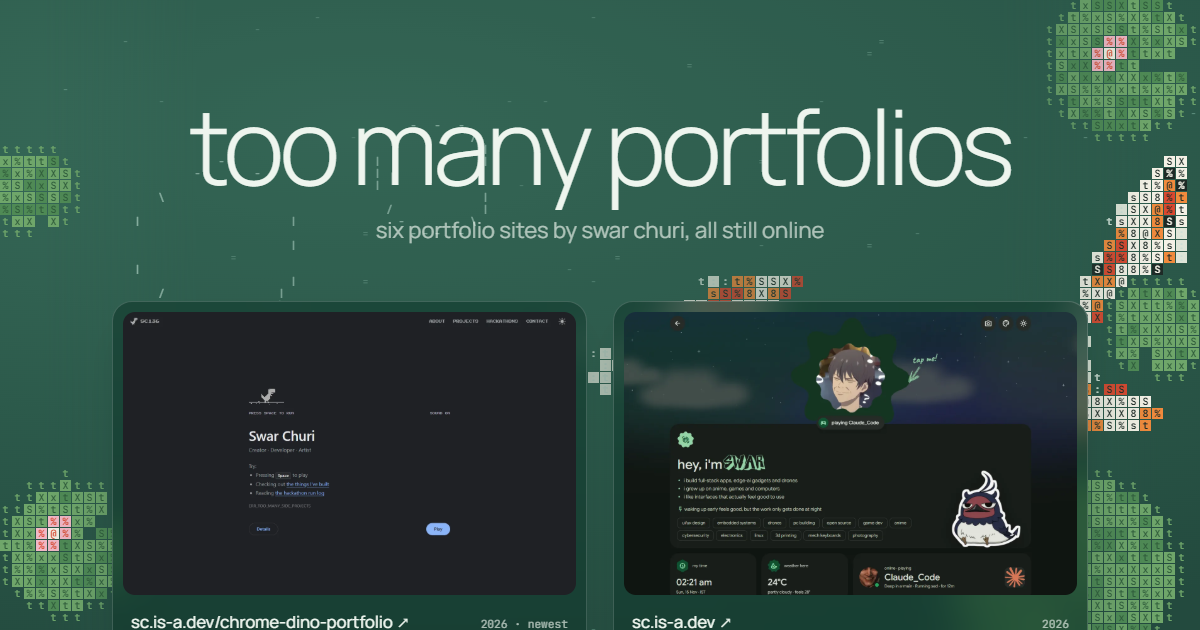
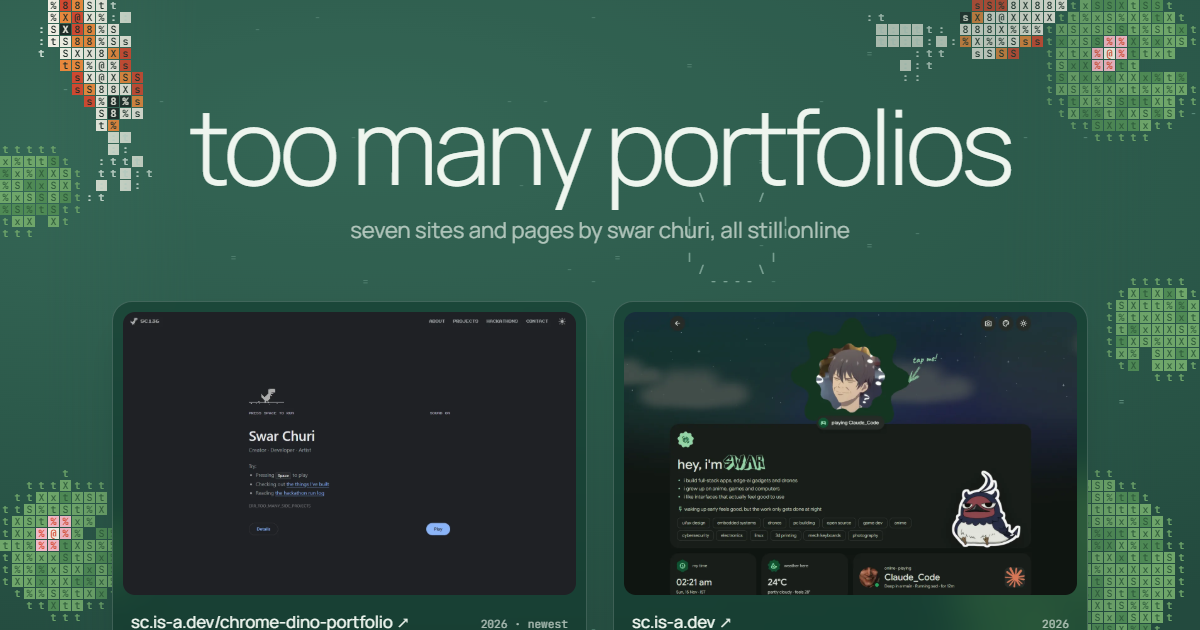
feat: swap the Vercel rebuild for /more and /socials
Replaces the swarchuri.vercel.app card with swar.is-a.dev/more and
swar.is-a.dev/socials, bringing the list to seven. Centres the odd
last card, updates the copy and share descriptions, and re-renders
the preview image.

diff --git a/index.html b/index.html
@@ -4,7 +4,7 @@
     <meta charset="UTF-8">
     <meta name="viewport" content="width=device-width, initial-scale=1.0">
     <title>Swar Churi · Too Many Portfolios</title>
-    <meta name="description" content="Every portfolio site Swar Churi has built, all still online, on a live ASCII wallpaper you can change.">
+    <meta name="description" content="Seven portfolio sites and pages by Swar Churi, all still online, on a live ASCII wallpaper you can change.">
     <meta name="theme-color" content="#2c5a4b">
     <link rel="canonical" href="https://sc.is-a.dev/portfolios/">
     <meta name="author" content="Swar Churi">
@@ -12,7 +12,7 @@
     <meta property="og:site_name" content="Swar Churi">
     <meta property="og:url" content="https://sc.is-a.dev/portfolios/">
     <meta property="og:title" content="Too Many Portfolios · Swar Churi">
-    <meta property="og:description" content="Six portfolio sites, all still online, on a live ASCII wallpaper you can change.">
+    <meta property="og:description" content="Seven portfolio sites and pages, all still online, on a live ASCII wallpaper you can change.">
     <meta property="og:image" content="https://sc.is-a.dev/portfolios/og.png">
     <meta property="og:image:type" content="image/png">
     <meta property="og:image:width" content="1200">
@@ -20,7 +20,7 @@
     <meta property="og:image:alt" content="The words too many portfolios over a green ASCII koi pond, with two site previews below">
     <meta name="twitter:card" content="summary_large_image">
     <meta name="twitter:title" content="Too Many Portfolios · Swar Churi">
-    <meta name="twitter:description" content="Six portfolio sites, all still online, on a live ASCII wallpaper you can change.">
+    <meta name="twitter:description" content="Seven portfolio sites and pages, all still online, on a live ASCII wallpaper you can change.">
     <meta name="twitter:image" content="https://sc.is-a.dev/portfolios/og.png">
     <meta name="twitter:image:alt" content="The words too many portfolios over a green ASCII koi pond, with two site previews below">
     <link rel="icon" type="image/png" href="SC.png">
@@ -158,6 +158,8 @@
             transition: transform 0.35s cubic-bezier(0.2, 0.8, 0.2, 1), box-shadow 0.35s ease, background-color 0.5s ease, border-color 0.5s ease;
         }
         .card:hover { transform: translateY(-4px); box-shadow: 0 26px 50px -22px var(--shadow); }
+        /* an odd card out sits centred instead of leaving a hole */
+        .card:last-child:nth-child(odd) { grid-column: 1 / -1; justify-self: center; width: calc(50% - clamp(16px, 2.4vw, 26px) / 2); }
         .card img {
             display: block;
             width: 100%;
@@ -195,6 +197,7 @@
 
         @media (max-width: 720px) {
             .grid { grid-template-columns: 1fr; }
+            .card:last-child:nth-child(odd) { width: 100%; }
             #wall { opacity: 0.62; }
             .links { border-radius: 22px; }
             .end small span { border-radius: 14px; }
@@ -227,7 +230,7 @@
     <div class="wrap">
         <header class="hero">
             <h1>too many portfolios</h1>
-            <p>Six of them so far, and every one is still online. Pick a door.</p>
+            <p>Seven of them so far, and every one is still online. Pick a door.</p>
             <div class="hint">press <kbd>T</kbd> to change the wallpaper</div>
         </header>
 
@@ -250,11 +253,17 @@
                 <p>The main one. Koi preloader, keycap buttons, a pixel fish in the text.</p>
                 <p class="stack">vanilla html · css · canvas</p>
             </a>
-            <a class="card" href="https://swarchuri.vercel.app/" target="_blank" rel="noopener noreferrer">
-                <img src="shots/vercel.webp" width="1440" height="900" loading="lazy" alt="A night-sky page titled Hackathons in yellow with three cards of team photos and results">
-                <div class="row"><span class="name">swarchuri.vercel.app<i>↗</i></span><span class="yr">c. 2025</span></div>
-                <p>The seasons site rebuilt in Next.js, with a night sky of hackathons.</p>
-                <p class="stack">next.js · vercel</p>
+            <a class="card" href="https://swar.is-a.dev/more" target="_blank" rel="noopener noreferrer">
+                <img src="shots/more.webp" width="1440" height="900" loading="lazy" alt="A cream page titled More Stuff with tiles for local time, weather, last played song, latest push and a live status">
+                <div class="row"><span class="name">swar.is-a.dev/more<i>↗</i></span><span class="yr">2026</span></div>
+                <p>Everything that didn't fit on the main page: the vibe check, live tiles and Pokémon.</p>
+                <p class="stack">vanilla html · css · live apis</p>
+            </a>
+            <a class="card" href="https://swar.is-a.dev/socials" target="_blank" rel="noopener noreferrer">
+                <img src="shots/socials.webp" width="1440" height="900" loading="lazy" alt="A dark page titled Social Connections with a wall of cards for AniList, YouTube, Instagram, Spotify, LinkedIn, Twitch and Steam">
+                <div class="row"><span class="name">swar.is-a.dev/socials<i>↗</i></span><span class="yr">2026</span></div>
+                <p>A wall of live cards for every place I'm online.</p>
+                <p class="stack">vanilla html · css · live apis</p>
             </a>
             <a class="card" href="https://sc.is-a.dev/portfolio_seasons/" target="_blank" rel="noopener noreferrer">
                 <img src="shots/seasons.webp" width="1440" height="900" loading="lazy" alt="An ink-wash painting of a maple tree in orange autumn leaf with the name Swar Churi brushed across it">
@@ -277,7 +286,7 @@
                 <a href="https://sc.is-a.dev/hackathons/" target="_blank" rel="noopener noreferrer">hackathons ↗</a>
                 <a href="https://github.com/SC136" target="_blank" rel="noopener noreferrer">github ↗</a>
             </nav>
-            <small><span>number seven is probably already in progress · swar churi, mumbai</span></small>
+            <small><span>number eight is probably already in progress · swar churi, mumbai</span></small>
         </footer>
     </div>
 
